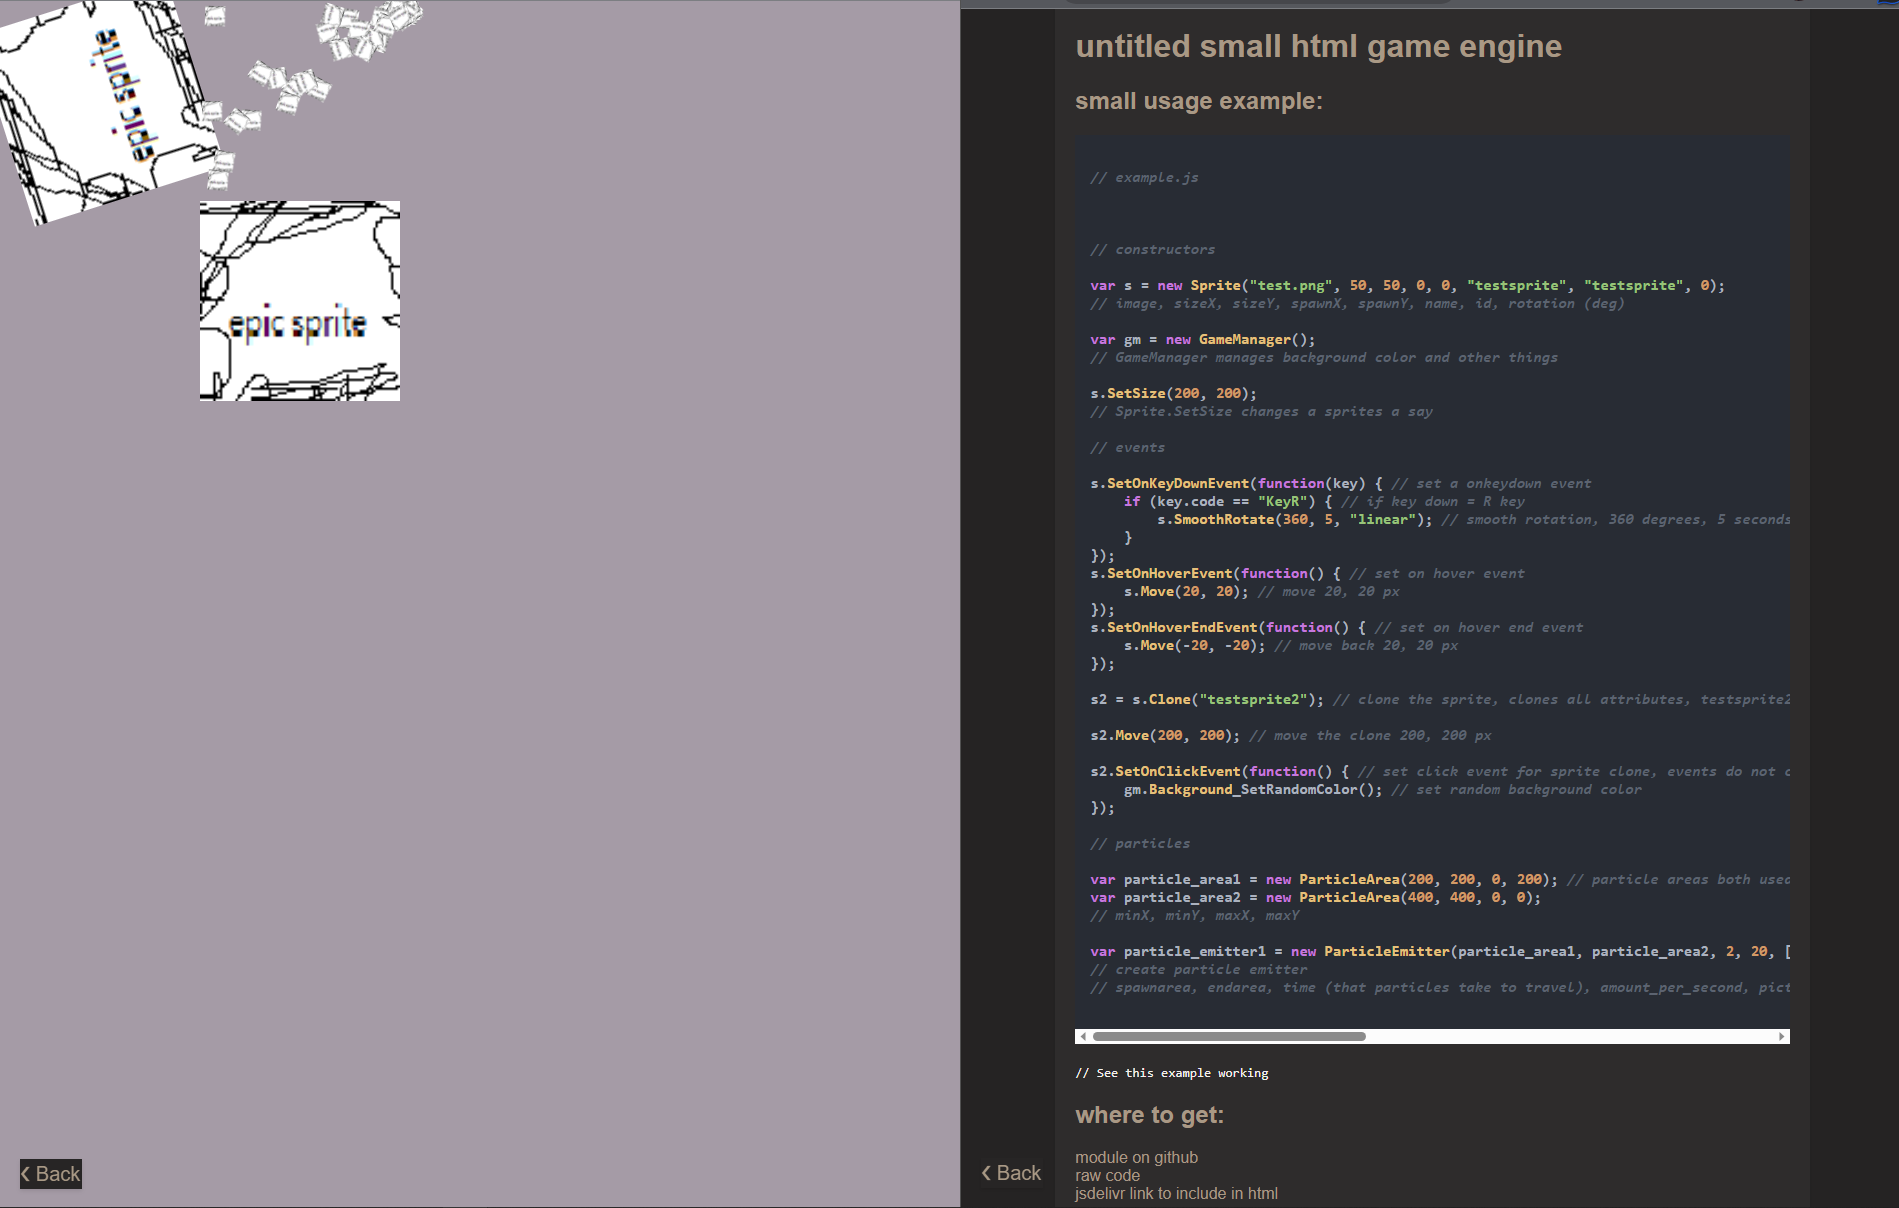
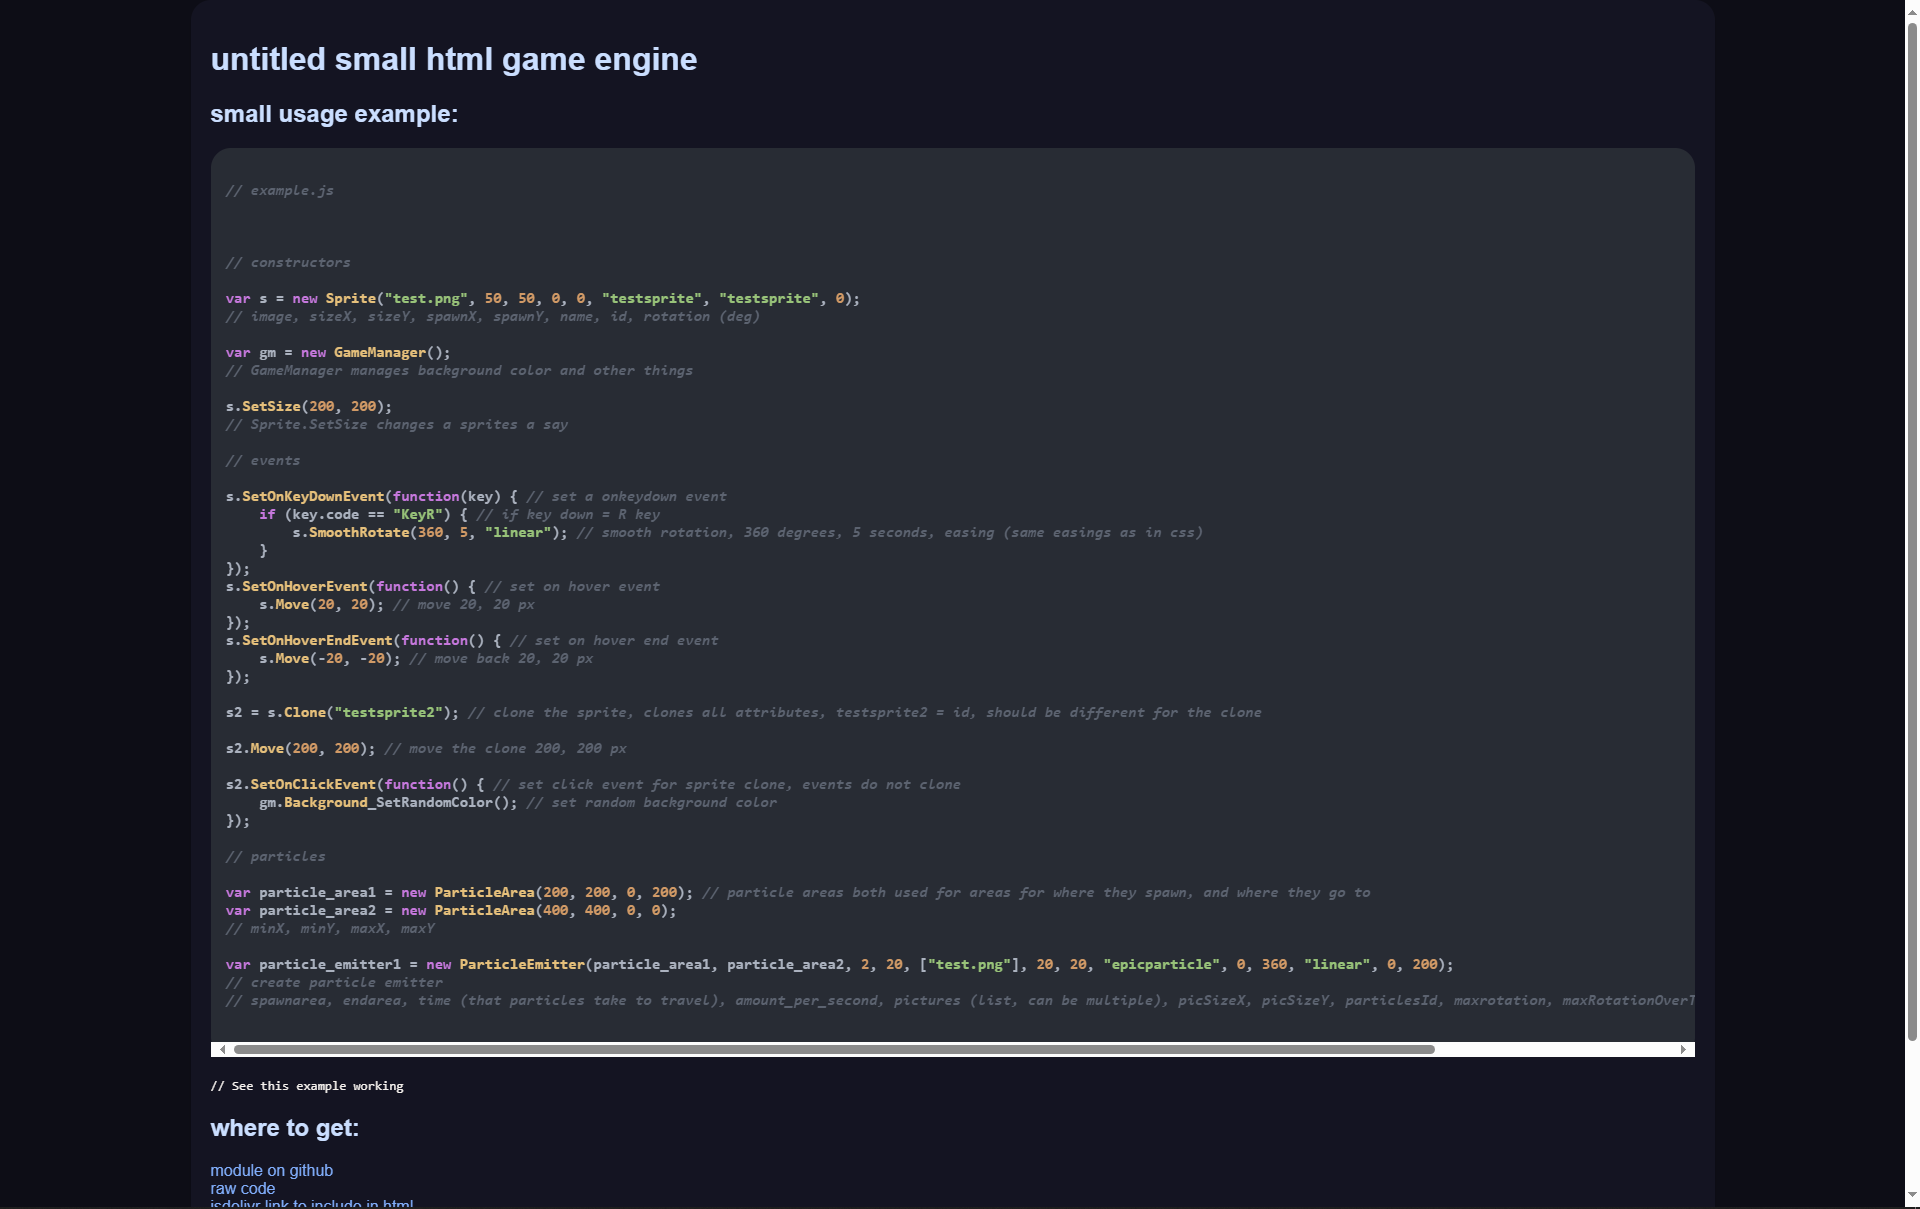
more css fixing

diff --git a/styles.css b/styles.css
@@ -1,3 +1,10 @@
+* {
+	border-radius: 20px;
+}
+
+canvas {
+	border-radius: 0;
+}
 
 body {
     font-family: Arial, sans-serif;
